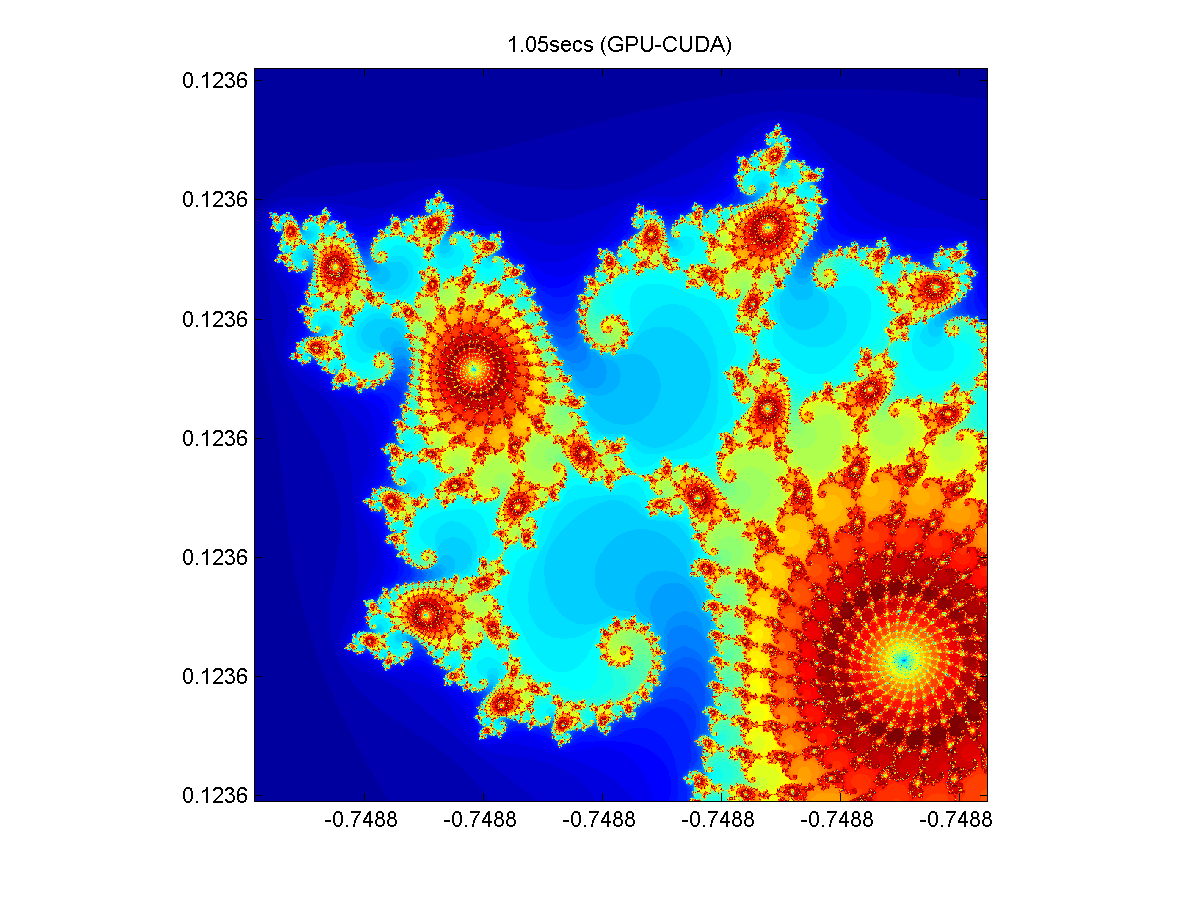
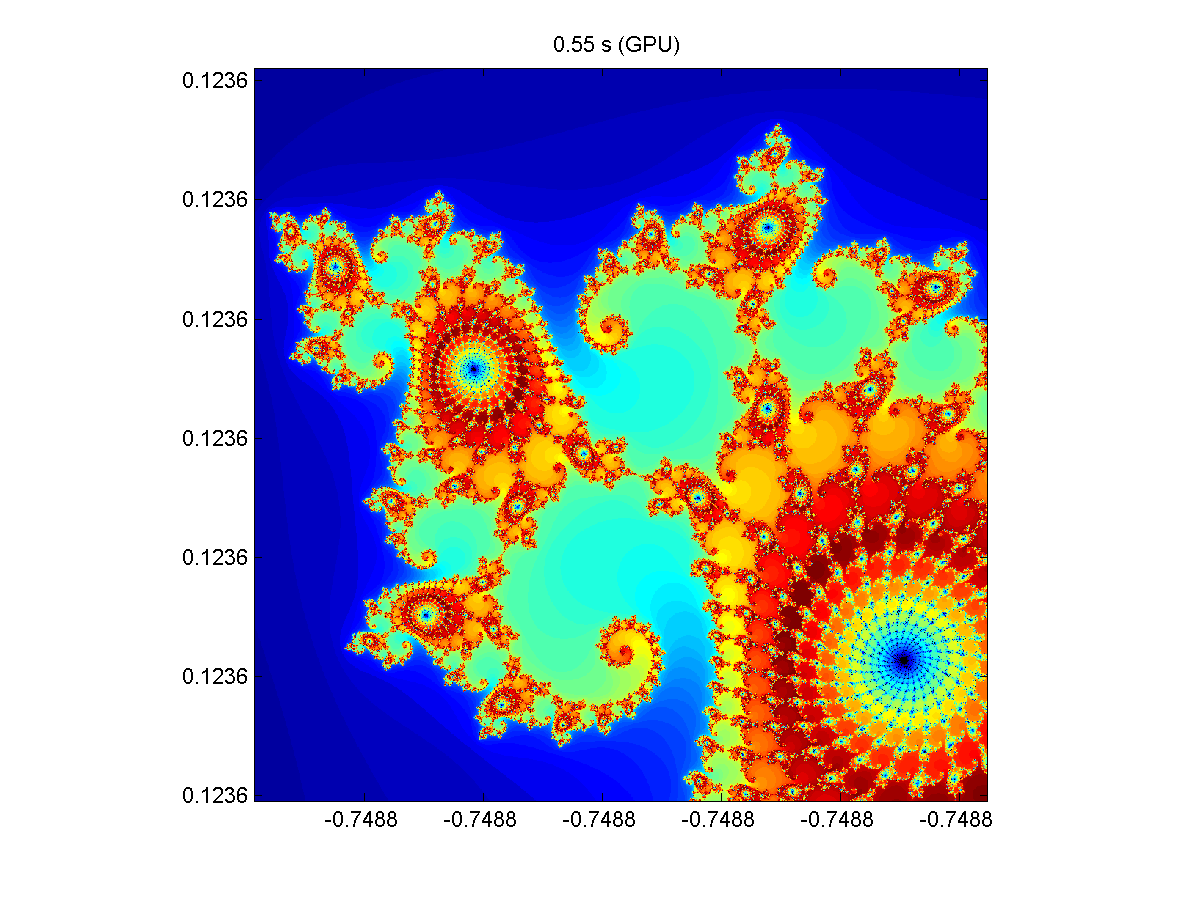
made output more user friendly

diff --git a/cudaerror.m b/cudaerror.m
@@ -1,9 +1,10 @@
 %Error checking between CPU and GPU
-function err = cudaerror(maxIter, gridSize)
+function [diff, err] = cudaerror(maxIter, gridSize)
     %Get count
-    cpuCount = cpufun(maxIter, gridSize);
-    gpuCount = cudafun(maxIter, gridSize);
+    [cpuTime, cpuCount] = cpufun(maxIter, gridSize);
+    [gpuTime, gpuCount] = cudafun(maxIter, gridSize);
     err = abs(cpuCount - gpuCount);
+    diff = abs(cpuTime - gpuTime);
     
     %Grid size
     gridSize = 1000;
@@ -24,7 +25,7 @@ function err = cudaerror(maxIter, gridSize)
     imagesc(x, y, err);
     axis image
     colormap([jet(); flipud(jet()); 0 0 0]);
-    title(sprintf('Total error: %1.12E', sum(sum(err))));
+    title(sprintf('Time Difference: %1.2f s\nTotal error: %1.12E', diff, sum(sum(err))));
     saveas(figure(3), 'error.png');
 end
 

diff --git a/cpufun.m b/cpufun.m
@@ -1,5 +1,5 @@
 %Generates a Mandelbrot set using the CPU
-function count = cpufun(maxIter, gridSize)
+function [cpuTime, count] = cpufun(maxIter, gridSize)
     %x limit
     xLimit = [-0.748766713922161, -0.748766707771757];
     %y limit
@@ -27,10 +27,10 @@ function count = cpufun(maxIter, gridSize)
     cpuTime = toc(t);
     fig = figure(1);
     clf(fig, 'reset');
-    fig.Position = [200 200 600 600];
+    fig.Position = [200, 200, 600, 600];
     imagesc(x, y, count);
     axis image
     colormap([jet(); flipud(jet()); 0 0 0]);
-    title(sprintf('%1.2fsecs (CPU)', cpuTime));
+    title(sprintf('%1.2f s (CPU)', cpuTime));
     saveas(figure(1), 'cpu.png');
 end

diff --git a/cudafun.m b/cudafun.m
@@ -1,5 +1,5 @@
 %Generates a Mandelbrot set using CUDA
-function count = cudafun(maxIter, gridSize)
+function [gpuTime, count] = cudafun(maxIter, gridSize)
     disp(gpuDevice()); %memory check
 
     %x limit
@@ -36,6 +36,6 @@ function count = cudafun(maxIter, gridSize)
     imagesc(x, y, count);
     axis image
     colormap([jet(); flipud(jet()); 0 0 0]);
-    title(sprintf('%1.2fsecs (GPU-CUDA)', gpuTime));
+    title(sprintf('%1.2f s (GPU) ', gpuTime));
     saveas(figure(2), 'cuda.png');
 end
